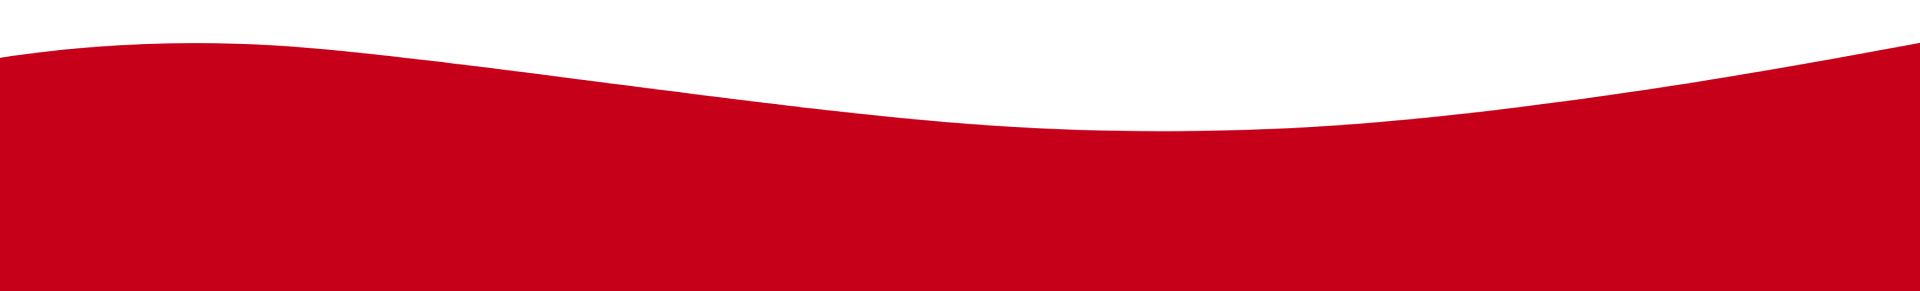
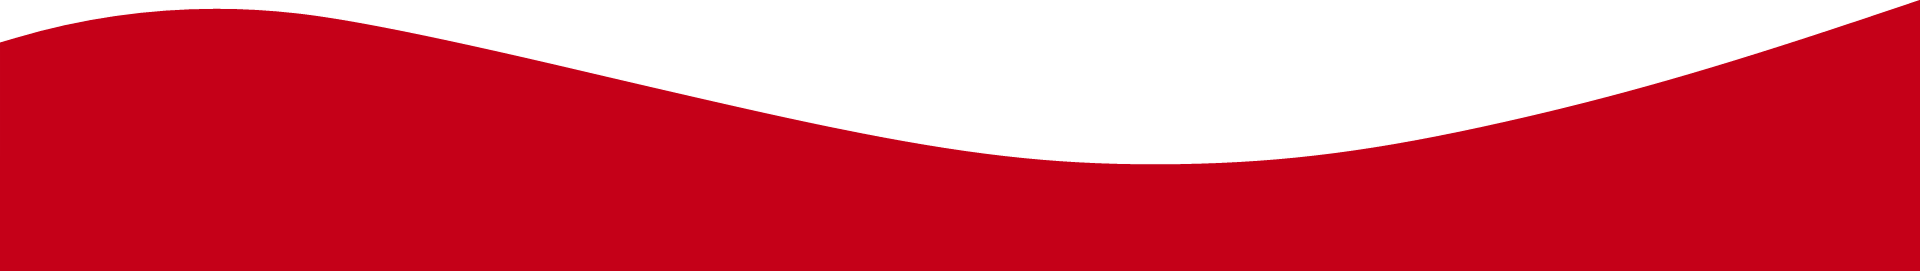
Image correction

Changed region(s): [[0.3125, 0.2952, 0.875, 0.6199], [0.0, 0.0295, 0.3125, 0.2952], [0.875, 0.0, 1.0, 0.2952]]

diff --git a/src/components/Sobre.vue b/src/components/Sobre.vue
@@ -14,13 +14,12 @@
             <p id="p3">Proin dignissim non orci id consequat. Curabitur et placerat augue, ut dignissim augue. Phasellus massa ligula, mollis quis lacus a, cursus lacinia risus. Phasellus eget nulla gravida, cursus est a, faucibus orci. Donec maximus purus id metus interdum, vel commodo diam suscipit.</p>
         </div>
     </div>
-    <img src="../assets/img/red_div.png" id="div">
 </template>
 
 <style scoped>
     .main{
-        padding-top: 65px;
         margin-inline: 4.69rem;
+        margin-bottom: 5rem;
     }
 
     .content{

diff --git a/src/App.vue b/src/App.vue
@@ -10,8 +10,24 @@ import Rodape from './components/Rodape.vue'
 <template>
   <Navbar />
   <Home />
+  <img id="home_div" src="./assets/img/white_div.png">
   <Sobre />
+  <img id="about_div" src="./assets/img/red_div.png">
   <Produtos />
   <Pedidos />
   <Rodape />
 </template>
+
+<style scoped>
+  #home_div{
+    display: block;
+    width: 100%;
+    background-color: #484848;
+  }
+
+  #about_div{
+    display: block;
+    width: 100%;
+    background-color: white;
+  }
+</style>

diff --git a/src/components/Navbar.vue b/src/components/Navbar.vue
@@ -3,9 +3,9 @@
         <img src='../assets/img/nav_logo.png' class="nav_logo" alt="Logo da empresa"/>
         <nav class="nav_links">
             <a href="#inicio">Inicio</a>
-            <a href="#produtos">Produtos</a>
+            <a href="#home_div">Sobre</a>
+            <a href="#about_div">Produtos</a>
             <a href="#pedidos">Pedidos</a>
-            <a href="#sobre">Sobre</a>
         </nav>
     </div>
 </template>

diff --git a/src/components/Home.vue b/src/components/Home.vue
@@ -2,7 +2,6 @@
     <div class="home" id="inicio">
         <img id="logo" src="../assets/img/nav_logo.png">
     </div>
-    <img id="div" src="../assets/img/white_div.png">
 </template>
 
 <style scoped>
@@ -17,10 +16,5 @@
         width: 375px;
         height: 100%;
         margin-inline: auto;
-    }
-
-    #div{
-        width: 100%;
-        background-color: #484848;
     }
 </style>

diff --git a/src/components/Produtos.vue b/src/components/Produtos.vue
@@ -30,7 +30,7 @@
 <style scoped>
     .main{
         background-color: #C50018;
-        padding: 80px 0 80px 0;
+        padding-bottom: 5rem;
     }
 
     h1{
